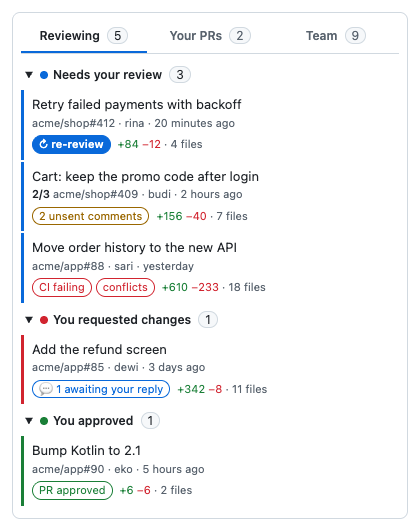
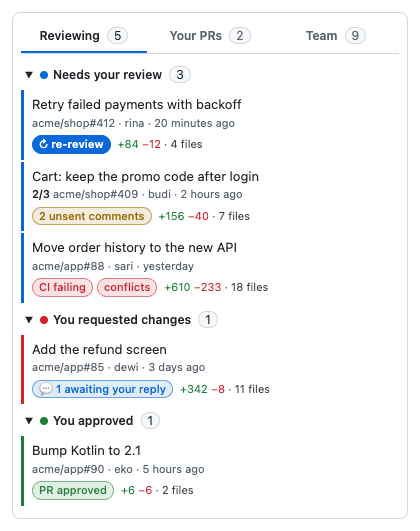
Pills you can read
Neutral pills use near-text colour on a soft fill; coloured ones use
brighter shades than the diff's (the dark theme's green and red are
dimmed for code) with a light tint of their own colour. README pictures
recaptured.

diff --git a/app/src/style.css b/app/src/style.css
@@ -528,3 +528,14 @@ mark.wd-add { background: light-dark(#a6f0b5, #3a6b45); color: inherit; padding:
 .pill.p-claude-wait { color: light-dark(#9a6700, #cc7832); border-color: currentColor; font-weight: 600; }
 .setup-fix { margin-top: 4px; }
 .setup-fix pre { margin: 0; padding: 4px 8px; background: var(--soft); border-radius: 4px; font-size: 12px; white-space: pre-wrap; }
+/* Pills, legible: neutral ones in near-text colour on a soft fill; coloured ones in brighter shades than the diff's
+   (the dark theme's green and red are dimmed for code) with a light tint of their own colour. */
+:root { --pill-ok: light-dark(#1a7f37, #7fc27a); --pill-bad: light-dark(#cf222e, #f08a84); --pill-warn: light-dark(#9a6700, #e8a95c); --pill-info: light-dark(#0969da, #79b4ff); }
+.pill { color: color-mix(in srgb, var(--fg) 88%, var(--bg)); background: var(--soft); border-color: var(--border); }
+.pill.p-ok, .pill.p-claude { color: var(--pill-ok); }
+.pill.p-bad { color: var(--pill-bad); }
+.pill.p-warn, .pill.p-claude-wait { color: var(--pill-warn); }
+.pill.p-reply { color: var(--pill-info); }
+.pill:is(.p-ok, .p-bad, .p-warn, .p-reply, .p-claude, .p-claude-wait) { border-color: color-mix(in srgb, currentColor 55%, transparent); background: color-mix(in srgb, currentColor 13%, transparent); font-weight: 500; }
+.pill.p-size { background: none; }
+.pill.p-size .a { color: var(--pill-ok); } .pill.p-size .d { color: var(--pill-bad); }
